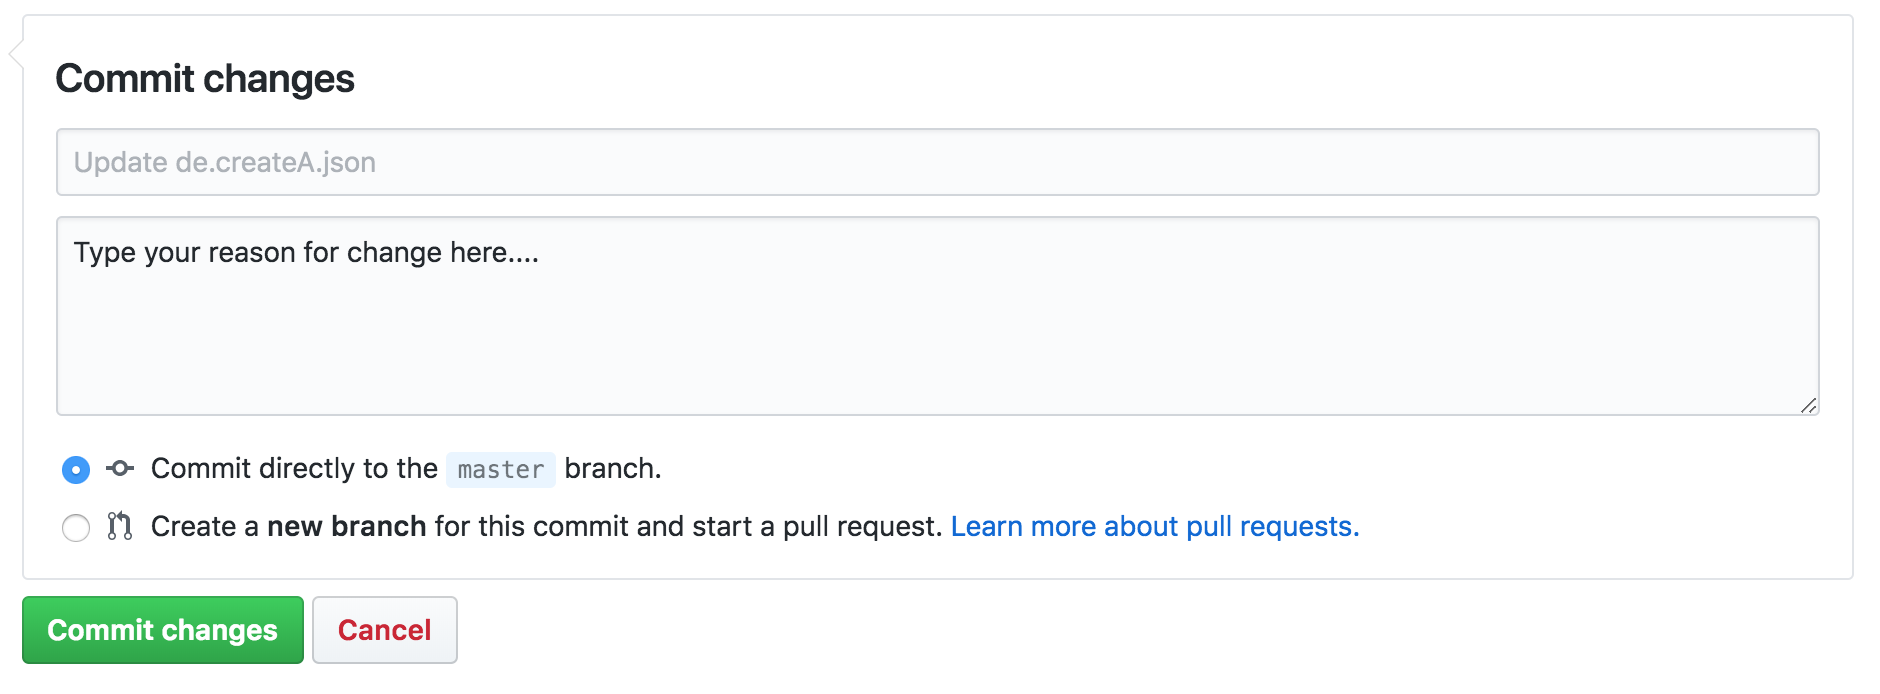
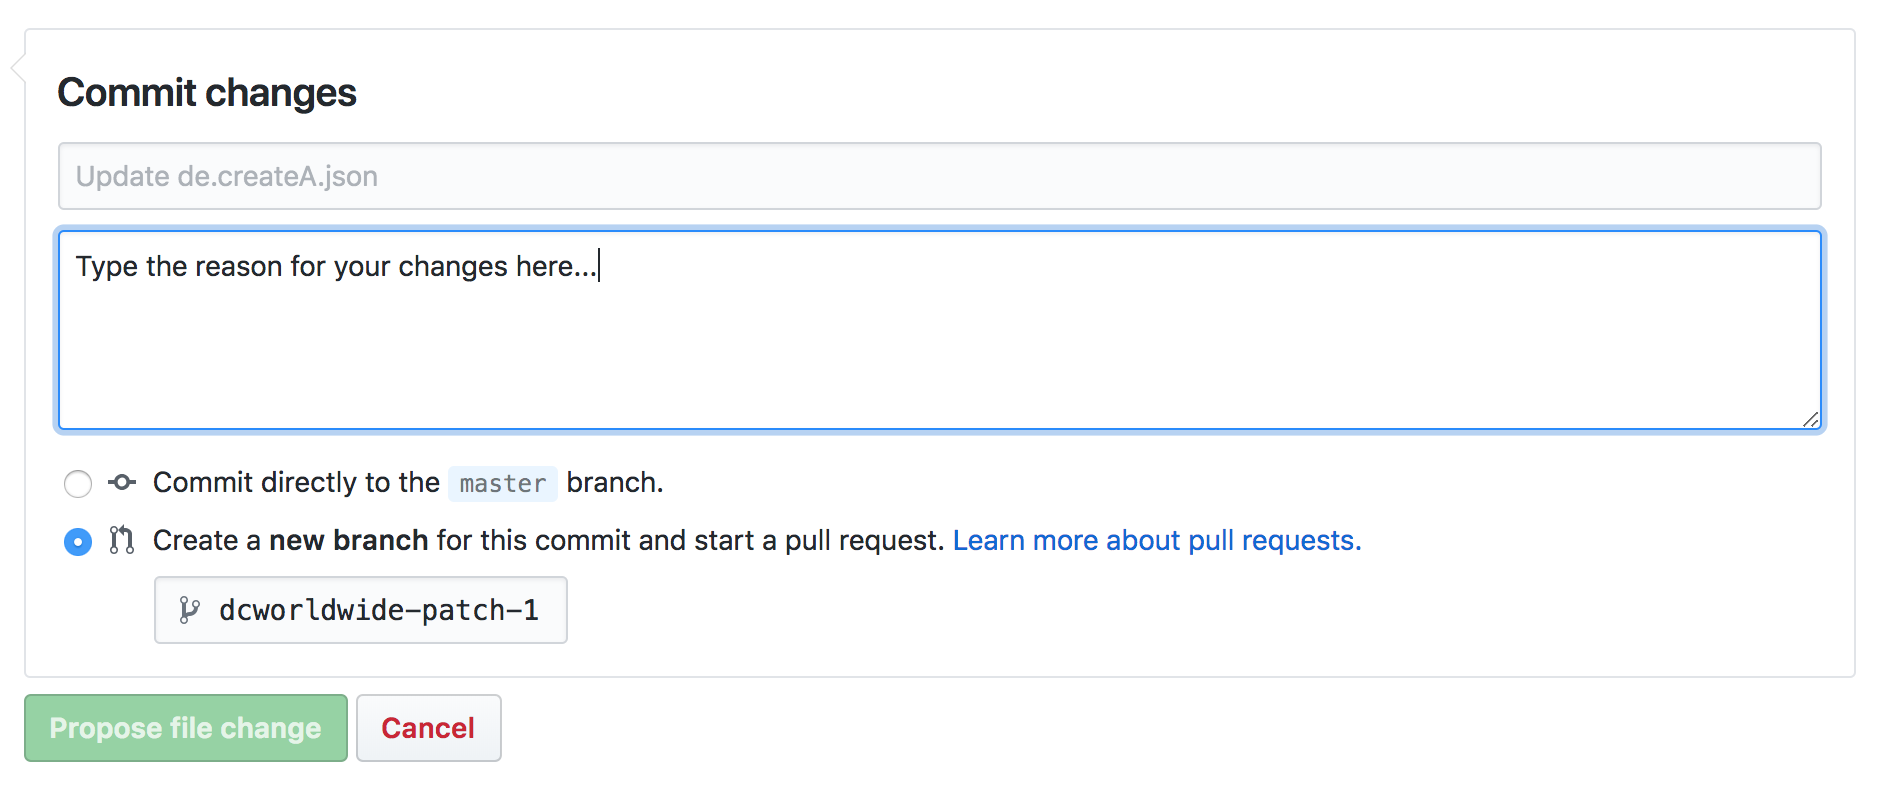
Docs

diff --git a/README.md b/README.md
@@ -8,7 +8,7 @@ Usage
 
 1. Open a *.json file 
 2. Click the edit button to start editing ![Click the edit button to start editing](docs/screen-edit-file.png?raw=true "Click the edit button to start editing")
-3. Select **Create new branch for this commit...** and then click **commit changes** to submit your edits. Make sure you leave a comment describing your changes ![Click save changes to submit your edits](docs/screen-save-changes.png?raw=true "Click save changes to submit your edits")
+3. Select **Create new branch for this commit...** and then click **propose file change** to submit your edits. Make sure you leave a comment describing your changes ![Click save changes to submit your edits](docs/screen-save-changes.png?raw=true "Click save changes to submit your edits")
 4. Done. We will then review your edits and release an update :)
 
 
